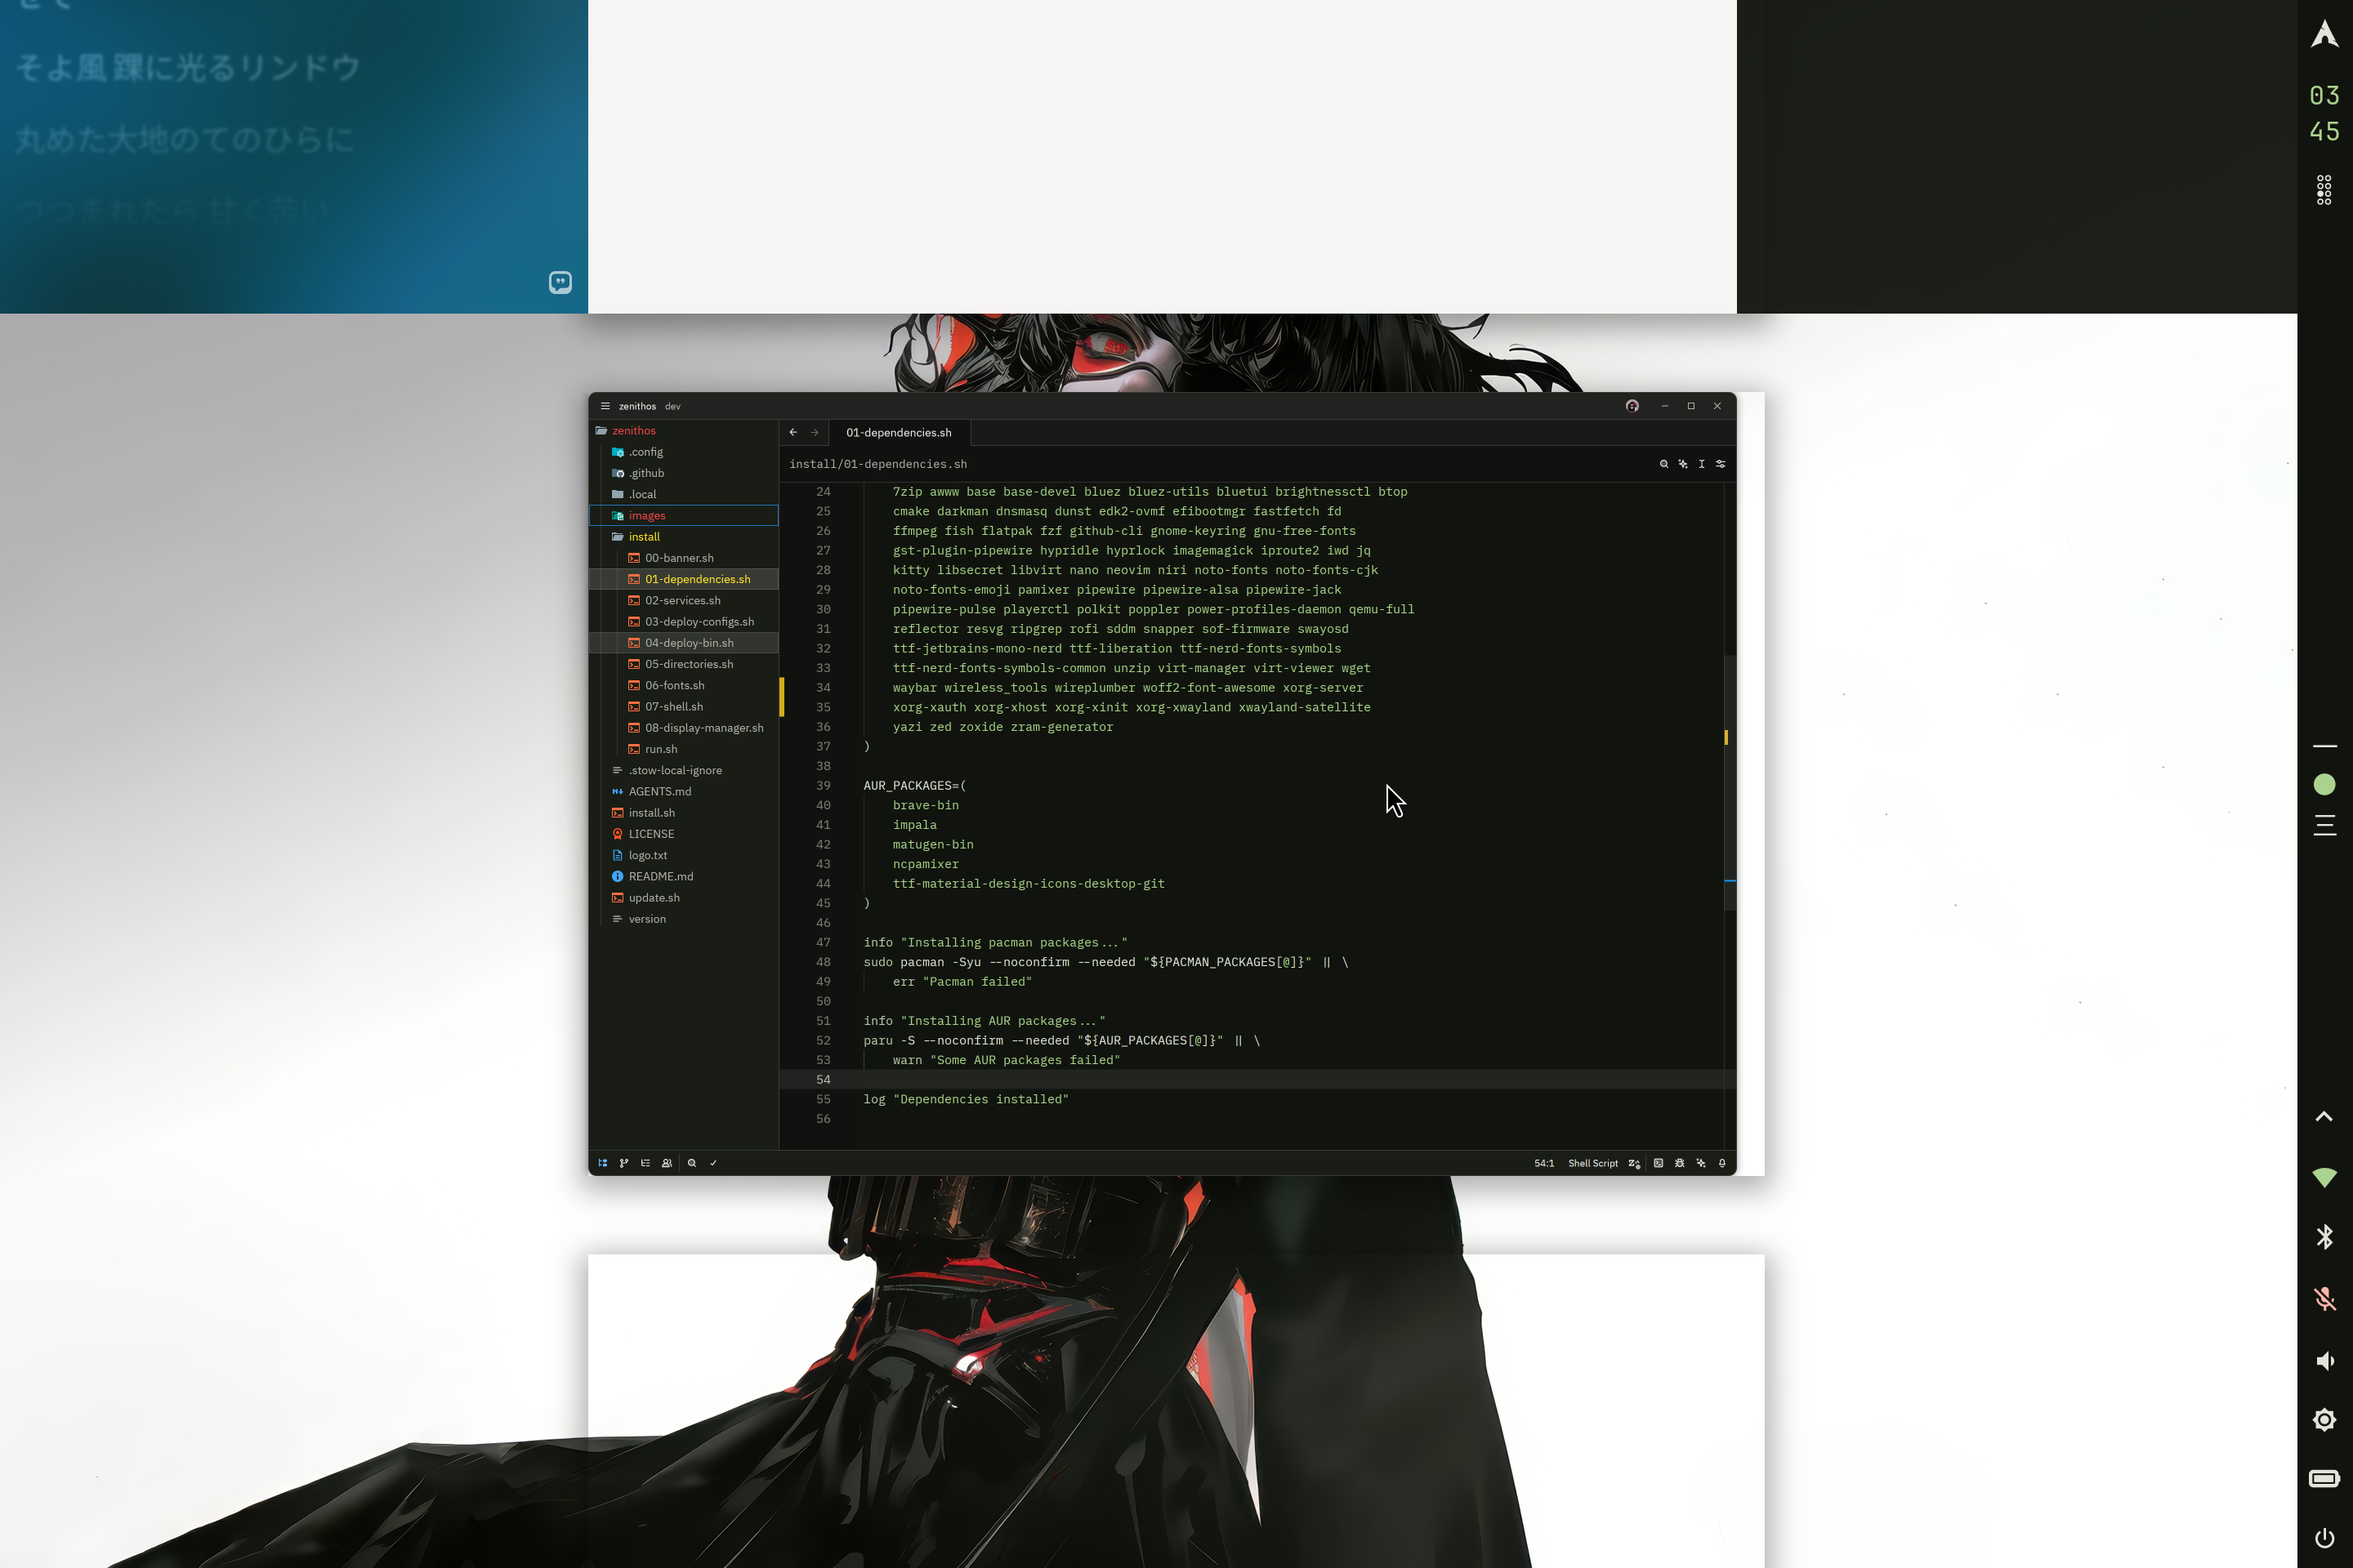
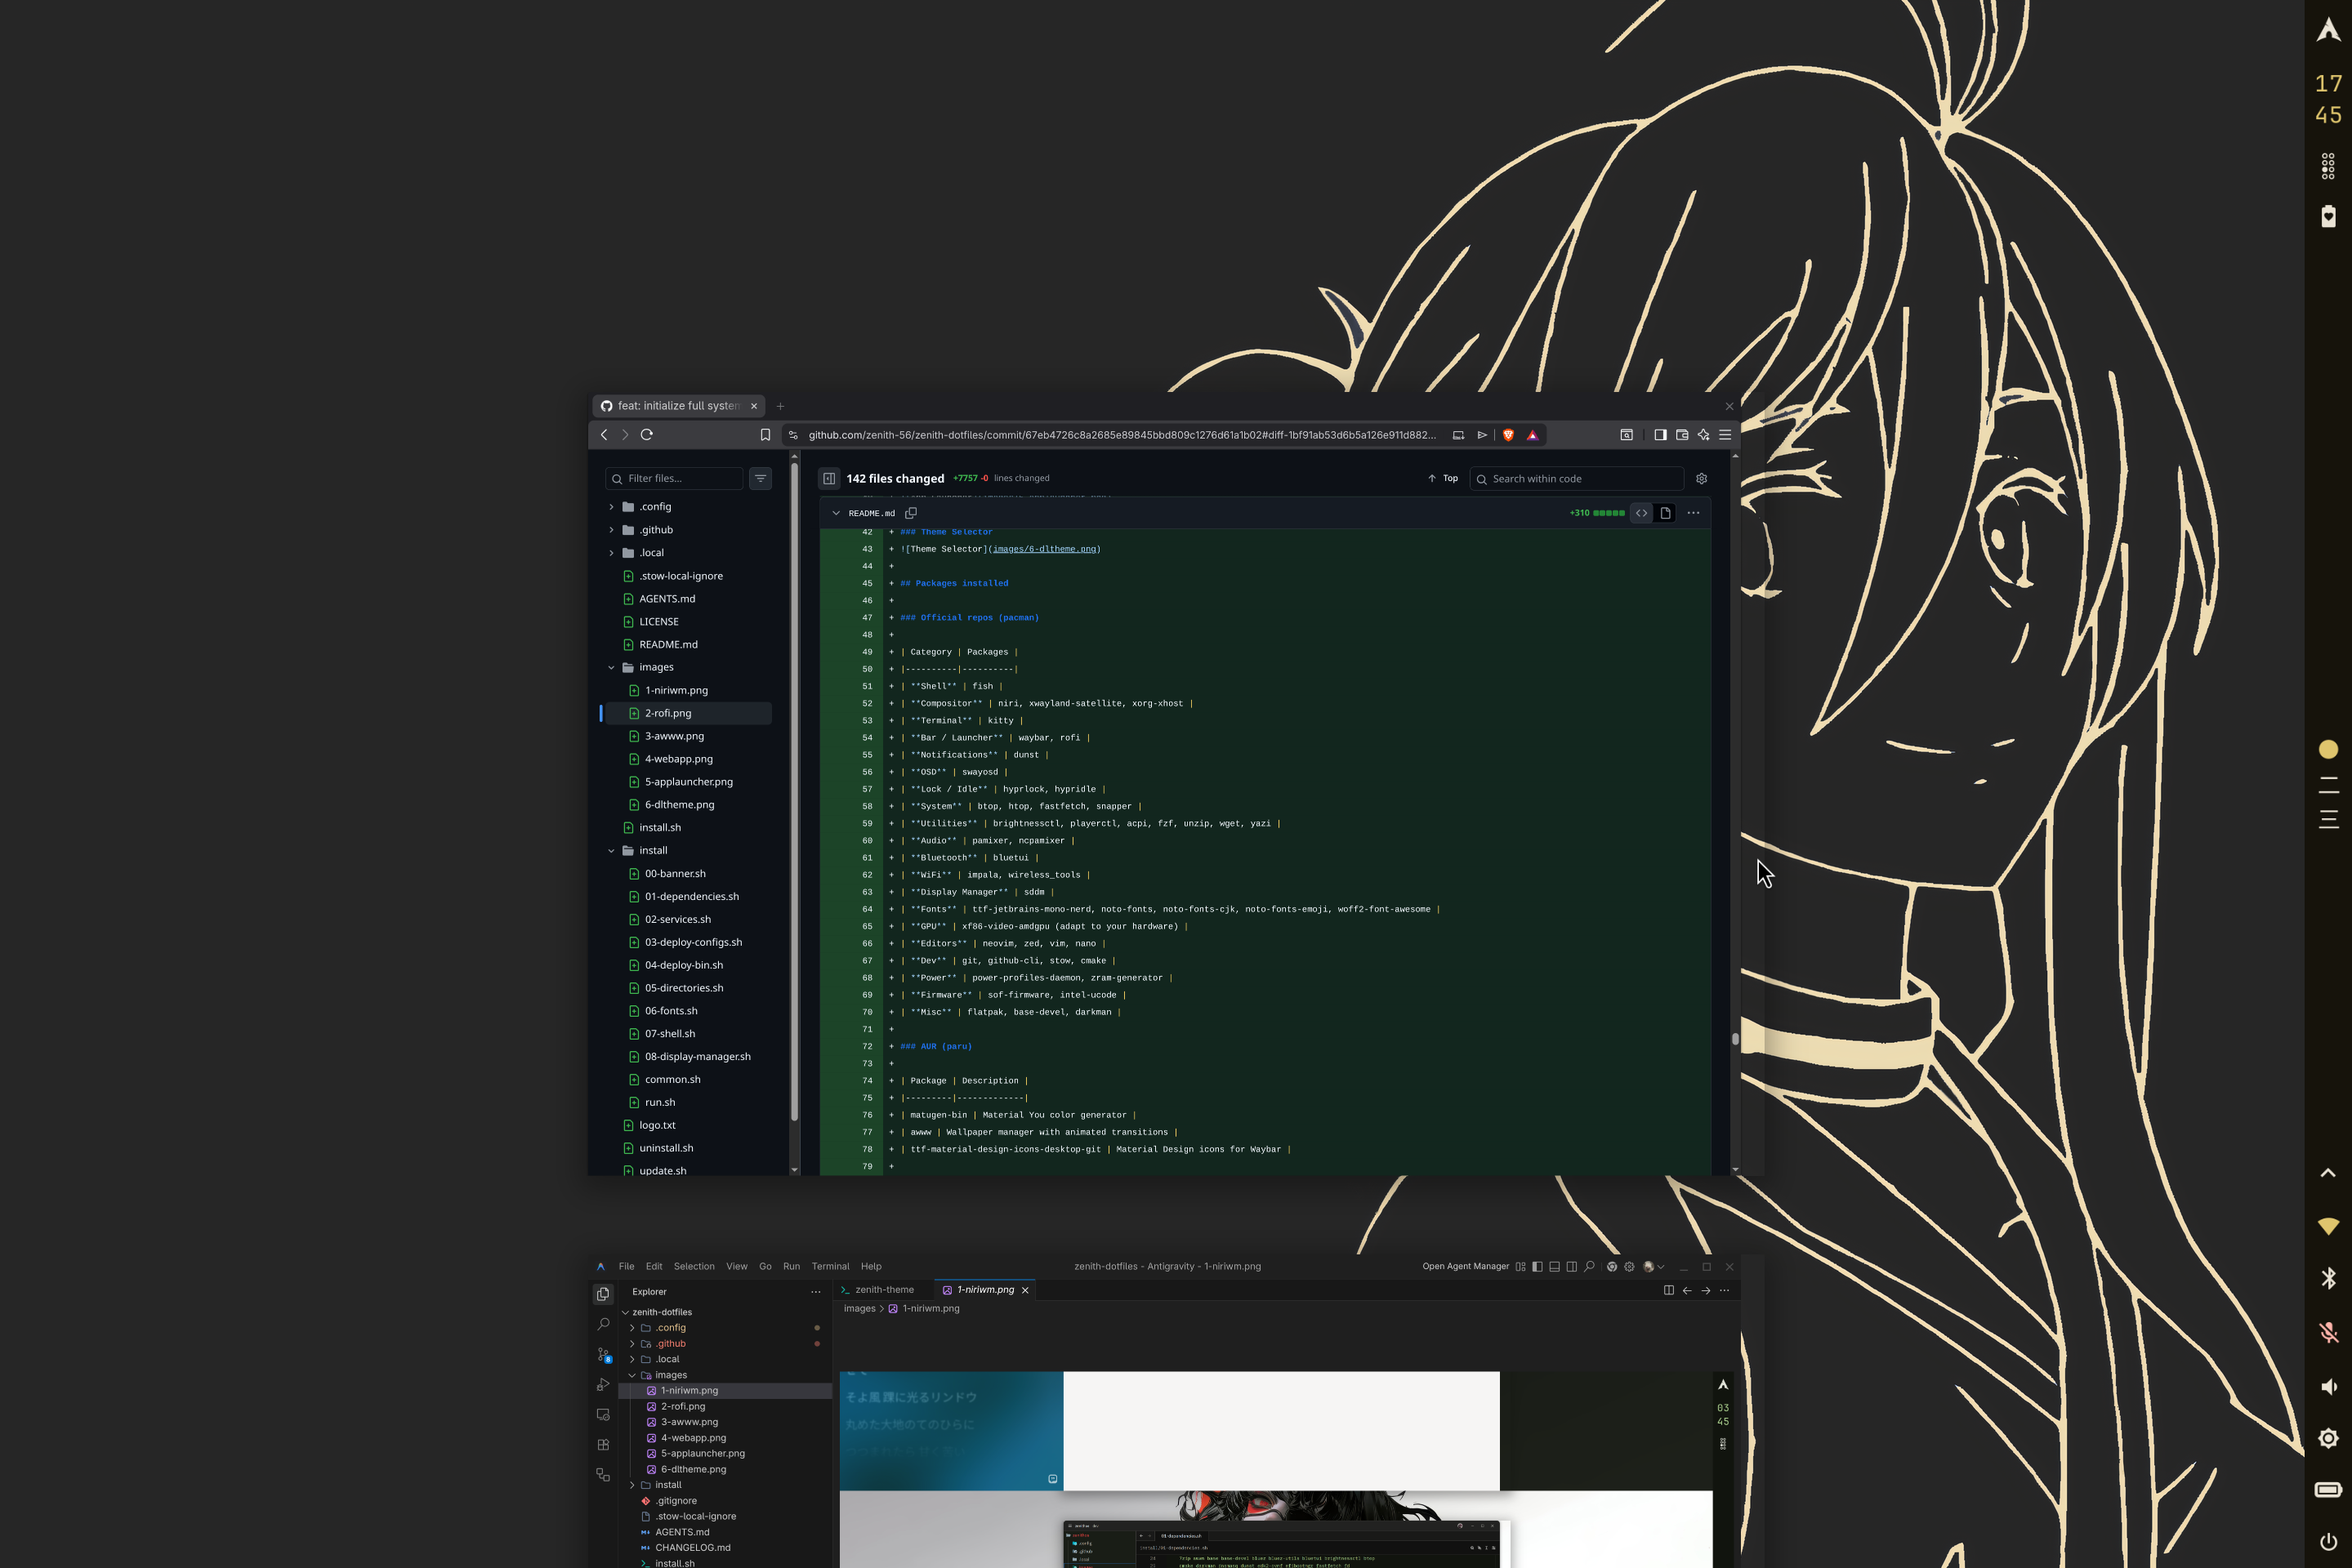
chore: refresh documentation screenshots

diff --git a/.config/waybar/colors.css b/.config/waybar/colors.css
@@ -1,43 +1,43 @@
-@define-color primary #ffb1c7;
-@define-color on_primary #551d31;
-@define-color primary_container #703347;
-@define-color on_primary_container #ffd9e2;
-@define-color inverse_primary #8c4a5f;
+@define-color primary #dfc56d;
+@define-color on_primary #3b2f00;
+@define-color primary_container #564500;
+@define-color on_primary_container #fde186;
+@define-color inverse_primary #705d0d;
 
-@define-color secondary #e3bdc6;
-@define-color on_secondary #422930;
-@define-color secondary_container #5b3f47;
-@define-color on_secondary_container #ffd9e2;
+@define-color secondary #d3c6a1;
+@define-color on_secondary #383016;
+@define-color secondary_container #4f462a;
+@define-color on_secondary_container #f0e2bb;
 
-@define-color tertiary #eebd93;
-@define-color on_tertiary #47290b;
-@define-color tertiary_container #613f1f;
-@define-color on_tertiary_container #ffdcc1;
+@define-color tertiary #abcfb0;
+@define-color on_tertiary #173721;
+@define-color tertiary_container #2e4e36;
+@define-color on_tertiary_container #c7eccb;
 
 @define-color error #ffb4ab;
 @define-color on_error #690005;
 @define-color error_container #93000a;
 @define-color on_error_container #ffdad6;
 
-@define-color surface #191113;
-@define-color on_surface #efdfe1;
-@define-color surface_variant #514346;
-@define-color on_surface_variant #d6c2c5;
-@define-color surface_dim #191113;
-@define-color surface_bright #413739;
-@define-color surface_container_lowest #140c0e;
-@define-color surface_container_low #22191b;
-@define-color surface_container #261d1f;
-@define-color surface_container_high #31282a;
-@define-color surface_container_highest #3c3234;
-@define-color inverse_surface #efdfe1;
-@define-color inverse_on_surface #382e30;
+@define-color surface #16130b;
+@define-color on_surface #e9e2d4;
+@define-color surface_variant #4b4639;
+@define-color on_surface_variant #cec6b4;
+@define-color surface_dim #16130b;
+@define-color surface_bright #3d392f;
+@define-color surface_container_lowest #110e07;
+@define-color surface_container_low #1e1b13;
+@define-color surface_container #221f17;
+@define-color surface_container_high #2d2a21;
+@define-color surface_container_highest #38342b;
+@define-color inverse_surface #e9e2d4;
+@define-color inverse_on_surface #343027;
 
-@define-color background #191113;
-@define-color on_background #efdfe1;
+@define-color background #16130b;
+@define-color on_background #e9e2d4;
 
-@define-color outline #9e8c90;
-@define-color outline_variant #514346;
+@define-color outline #979080;
+@define-color outline_variant #4b4639;
 
 @define-color shadow #000000;
 @define-color scrim #000000;

diff --git a/.config/swayosd/style.css b/.config/swayosd/style.css
@@ -3,8 +3,8 @@
  * ============================================================================= */
 
 window {
-    background-color: #191113;
-    color: #efdfe1;
+    background-color: #16130b;
+    color: #e9e2d4;
     font-family: "JetBrains Mono Nerd Font";
     font-size: 12px;
     border-radius: 0px;
@@ -13,19 +13,19 @@ window {
 }
 
 -osd-bar {
-    background-color: #ffb1c7;
-    color: #551d31;
+    background-color: #dfc56d;
+    color: #3b2f00;
     min-width: 80px;
     min-height: 8px;
 }
 
 -osd-label {
-    color: #efdfe1;
+    color: #e9e2d4;
     font-size: 10px;
 }
 
 -osd-icon {
-    color: #ffb1c7;
+    color: #dfc56d;
 }
 
 .content {
@@ -34,13 +34,13 @@ window {
 
 .brightness-slider slider,
 .volume-slider slider {
-    background-color: #ffb1c7;
+    background-color: #dfc56d;
 }
 
 .icon {
-    color: #ffb1c7;
+    color: #dfc56d;
 }
 
 .bar {
-    background-color: #ffb1c7;
+    background-color: #dfc56d;
 }

diff --git a/README.md b/README.md
@@ -25,13 +25,29 @@ Arch Linux desktop with **Niri** (scrollable-tiling compositor), **Material You*
 
 ## Screenshots
 
-| 1-Niri | 2-Rofi | 3-Awww |
-|--------|--------|--------|
-| ![Niri](images/1-niriwm.png) | ![Rofi](images/2-rofi.png) | ![Awww](images/3-awww.png) |
+### Desktop & Menus
 
-| 4-WebApps | 5-Launcher | 6-Themes |
-|-----------|------------|----------|
-| ![Web Apps](images/4-webapp.png) | ![Launcher](images/5-applauncher.png) | ![Themes](images/6-dltheme.png) |
+| Niri WM | Rofi Menu | App Launcher |
+|---------|-----------|--------------|
+| ![Niri](images/1-niriwm.png) | ![Rofi Menu](images/2-rofimenu.png) | ![App Launcher](images/3-applauncher.png) |
+
+### Rofi Submenus
+
+| Network | Theming | Wallpaper Selector |
+|---------|---------|-------------------|
+| ![Network](images/4-networkmenu.png) | ![Theming](images/5-themingmenu.png) | ![Wallpaper Selector](images/6-wallselector.png) |
+
+### Theming & Packages
+
+| Light Mode | Package Manager | Package Lister |
+|------------|----------------|----------------|
+| ![Light Mode](images/7-lightmodesupport.png) | ![Package Manager](images/8-pkguninstaller.png) | ![Package Lister](images/9-applister.png) |
+
+### Web Apps & Animations
+
+| Web App Installer | Animations |
+|-------------------|------------|
+| ![Web Apps](images/10-webapp-support.png) | ![Animations](images/11-animations.gif) |
 
 ## Quick Install
 
